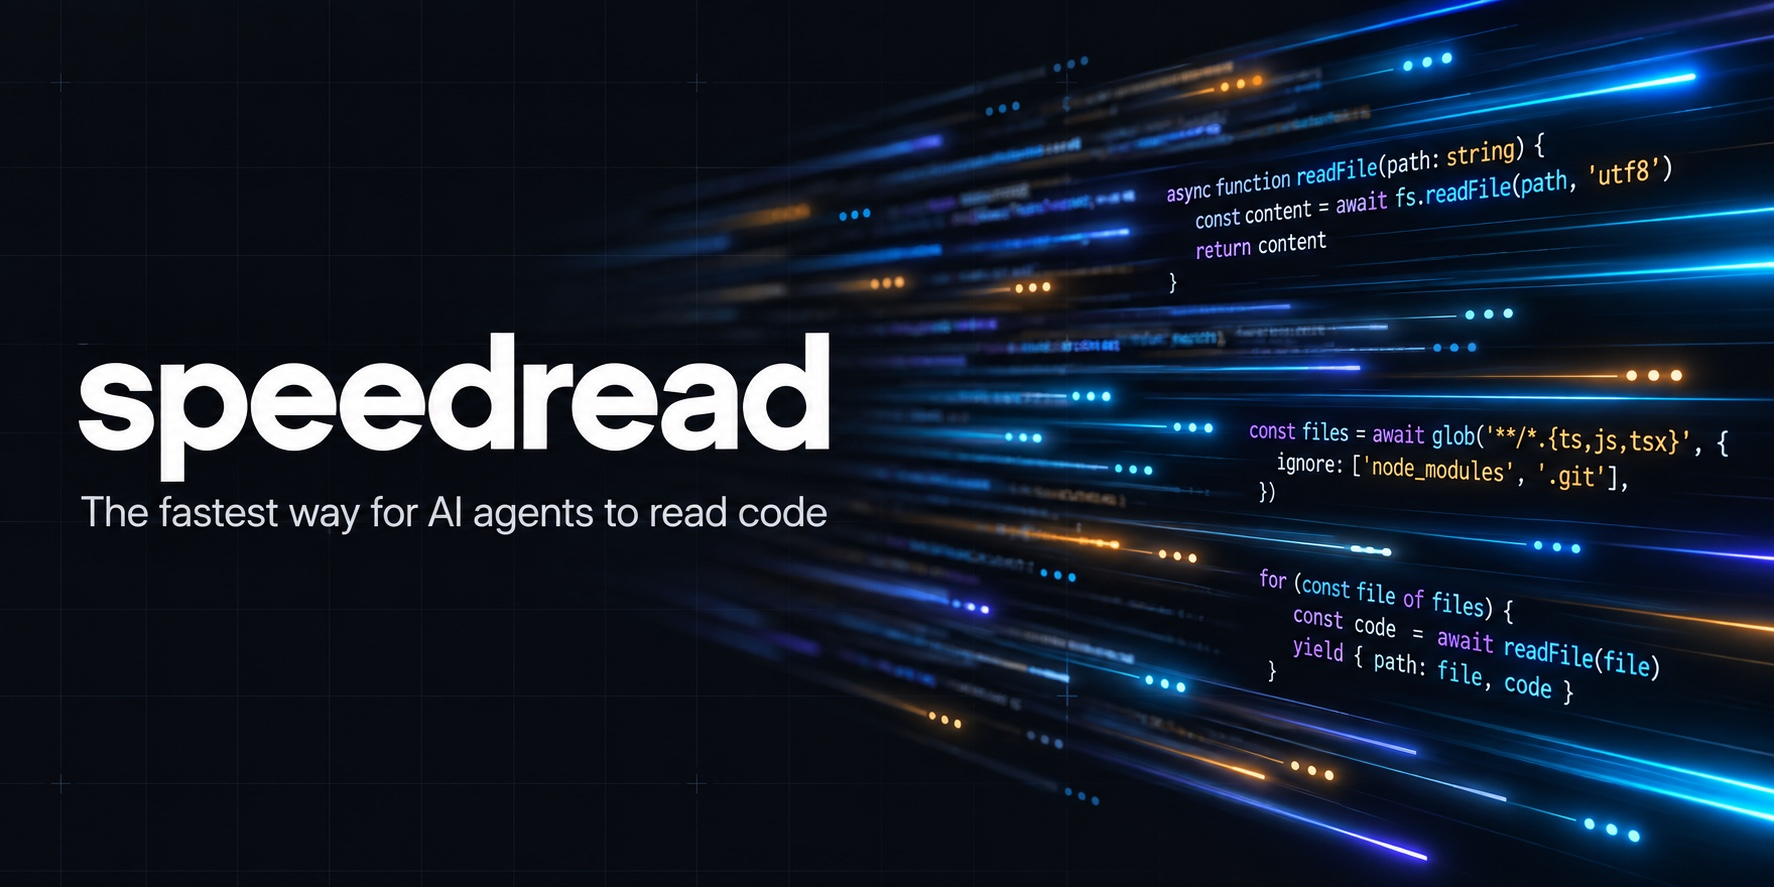
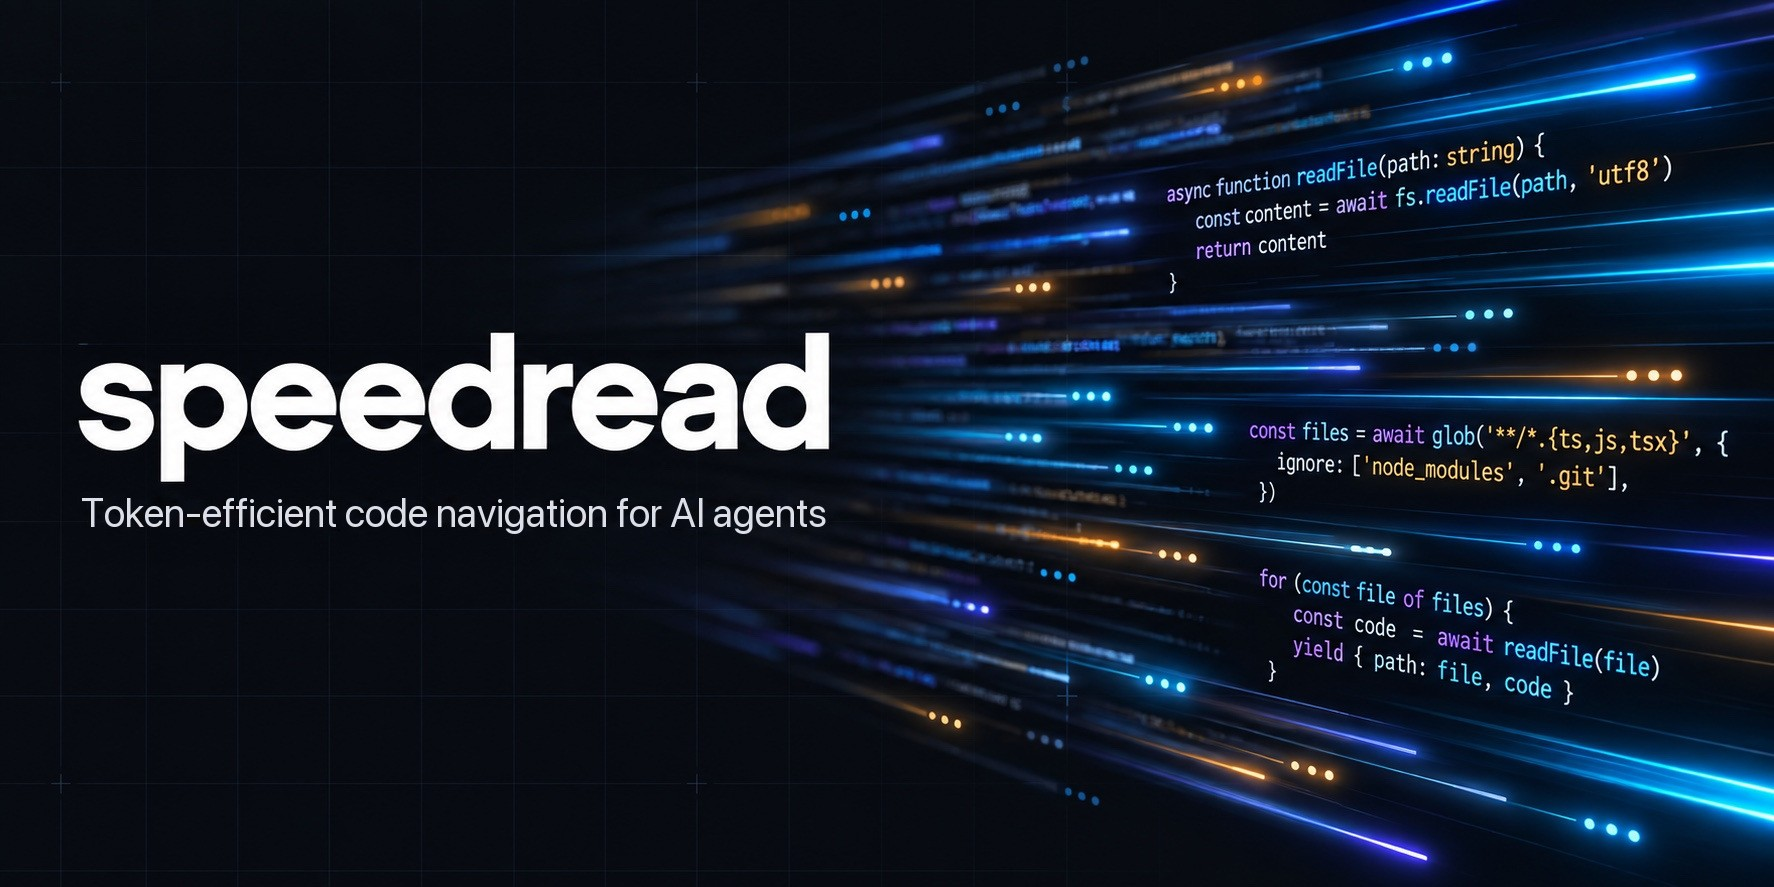
Describe speedread as code search and navigation, not the fastest reader
- Banner and social preview tagline, crate description and keywords,
  --help, crate docs and the Homebrew desc now say "token-efficient code
  search and navigation for AI coding agents". "Fastest" isn't what the
  evals measure, and it reads like human speed-reading software.
- The crate ships only sources, tests and docs: 0.14 MB instead of
  18.7 MB of eval transcripts and images.
- Homebrew: note that homebrew-core's unrelated speedread formula also
  installs bin/speedread.
- Model-facing strings (server instructions, tool descriptions,
  SKILL.md) are unchanged.

Copilot-Session: e8b08fd9-b759-4533-b079-0145e2024227

Changed region(s): [[0.031, 0.5479, 0.4651, 0.6088]]

diff --git a/packaging/homebrew/speedread.rb b/packaging/homebrew/speedread.rb
@@ -1,7 +1,12 @@
 # Homebrew formula (for a tap such as brennengreen/homebrew-tap).
 # Builds from source, so no notarization is needed.
+#
+# Name collision: homebrew-core already has an unrelated `speedread` formula
+# (pasky/speedread, an RSVP speed-reading tool), and both install
+# bin/speedread. Plain `brew install speedread` installs that one, so document
+# the fully qualified command: `brew install brennengreen/tap/speedread`.
 class Speedread < Formula
-  desc "Fastest, most token-efficient file reader for AI coding agents (MCP server)"
+  desc "Token-efficient code search and navigation for AI coding agents (MCP)"
   homepage "https://github.com/brennengreen/speedread"
   url "https://github.com/brennengreen/speedread/archive/refs/tags/v0.1.0.tar.gz"
   sha256 "REPLACE_WITH_RELEASE_TARBALL_SHA256"

diff --git a/src/main.rs b/src/main.rs
@@ -16,7 +16,7 @@ static GLOBAL: mimalloc::MiMalloc = mimalloc::MiMalloc;
 #[command(
     name = "speedread",
     version,
-    about = "The fastest, most token-efficient file reader for AI coding agents (MCP server + CLI), built for macOS."
+    about = "Token-efficient code search and navigation for AI coding agents (MCP server + CLI), built for macOS."
 )]
 struct Cli {
     /// Workspace root (repeatable). Default: $CLAUDE_PROJECT_DIR, else the current directory.

diff --git a/src/lib.rs b/src/lib.rs
@@ -1,4 +1,4 @@
-//! speedread: the fastest, most token-efficient file reader for AI coding
+//! speedread: token-efficient code search and navigation for AI coding
 //! agents — an MCP server and CLI, tuned for macOS on Apple Silicon.
 
 pub mod diff;

diff --git a/docs/RESEARCH.md b/docs/RESEARCH.md
@@ -1,4 +1,4 @@
-# Research: why agents read files badly, and what the fastest reader looks like
+# Research: why agents read files badly, and what a better reader looks like
 
 This document summarizes the research behind speedread's design: how today's coding agents read files, where their tokens and turns go, which techniques have evidence behind them, what macOS offers for speed, and what MCP clients allow. Numbers marked **(measured)** come from our own experiments on an Apple M4 (see [evals/RESULTS.md](../evals/RESULTS.md)). Everything else is cited. Research was conducted in September 2026.
 
